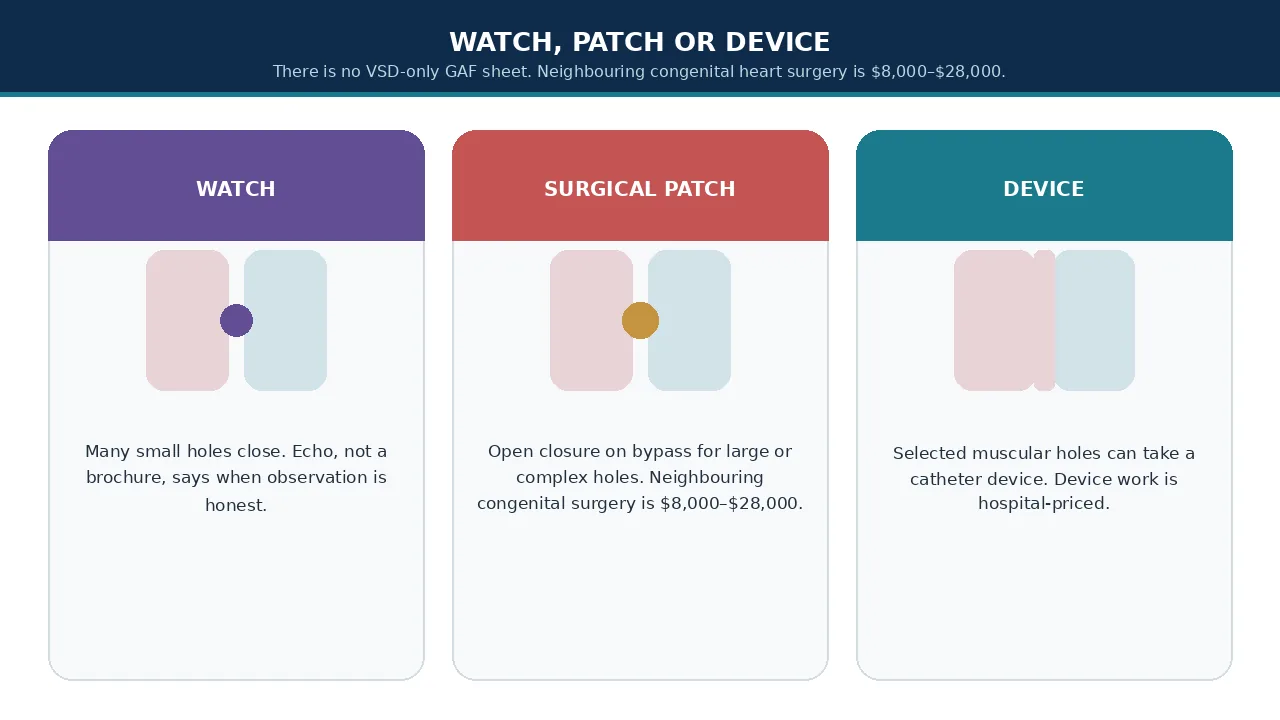
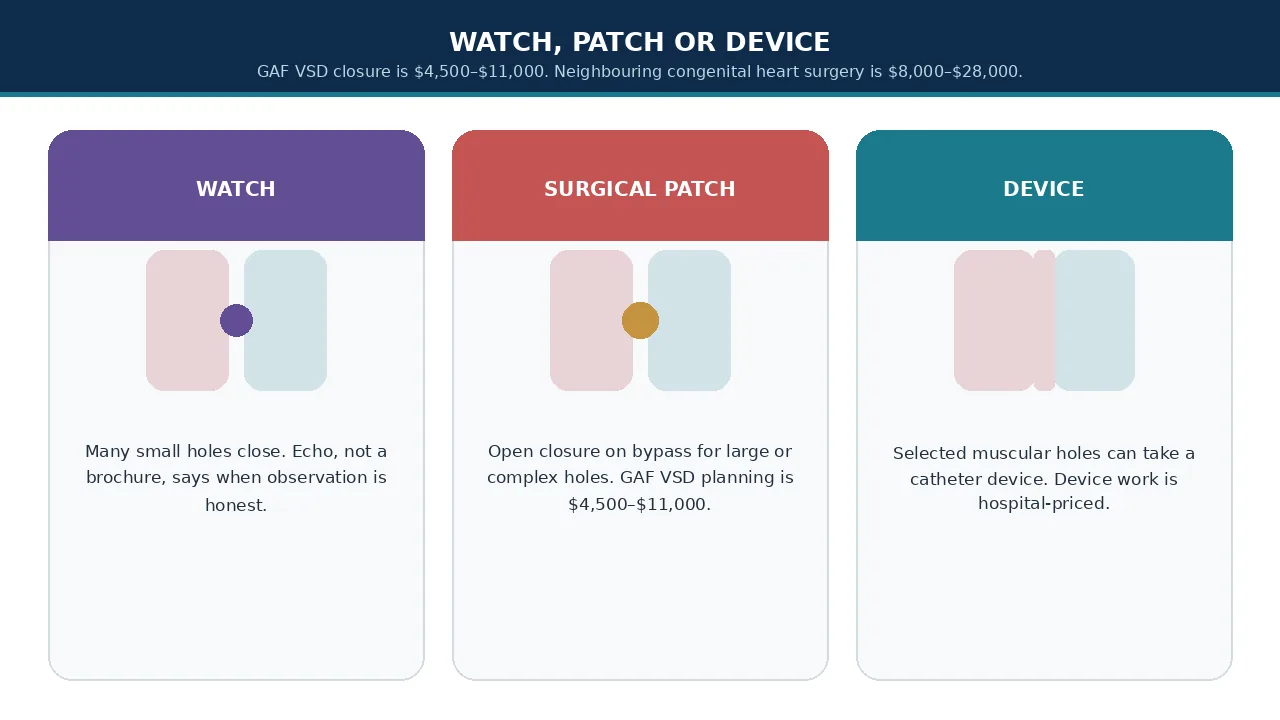
Refresh VSD closure surgery in India page
Move the live VSD guide onto the named GAF sheet ($4,500–$11,000, 6–12 nights), pediatric GEO links, the requested Quick Answer box, and reverse-links to TOF, PDA and Glenn.

Changed region(s): [[0.375, 0.6417, 0.625, 0.7333], [0.1875, 0.0917, 0.8125, 0.1222]]

diff --git a/src/server-tests/curated-treatment.test.ts b/src/server-tests/curated-treatment.test.ts
@@ -4023,14 +4023,18 @@ test("the published VSD surgery page uses GAF USD ranges and cardiac GEO links",
   assert.deepEqual(validateTreatmentForSave(treatment, store), []);
   const body = treatment.translations.en!.editorialBody;
   assert.doesNotMatch(body, /₹|lakh/i);
+  assert.match(body, /\$4,500–\$11,000/);
   assert.match(body, /\$8,000–\$28,000/);
   assert.match(body, /\$7,000–\$18,000/);
   assert.match(body, /\$7,000–\$18,500/);
   assert.match(body, /\$3,500–\$9,000/);
+  assert.match(body, /\$35,000–\$90,000/);
   assert.match(body, /\$80,000–\$250,000/);
+  assert.match(body, /6–12 nights/);
   assert.match(body, /7–21 nights/);
-  assert.match(body, /article-quick-answer|Quick Answer: VSD Surgery in India/);
+  assert.match(body, /article-quick-answer|Quick Answer: VSD Closure Surgery in India/);
   assert.match(body, /local emergency department/);
+  assert.match(body, /\/costs\/India\/Pediatric-Cardiac-Surgery\/VSD-Closure-\(Ventricular-Septal-Defect\)/);
   assert.match(body, /\/costs\/India\/Cardiac-Surgery\/Congenital-Heart-Surgery/);
   assert.match(body, /\/treatments\/heart-valve-replacement-in-india/);
   assert.match(body, /\/treatments\/pacemaker-implantation-in-india/);
@@ -4040,6 +4044,16 @@ test("the published VSD surgery page uses GAF USD ranges and cardiac GEO links",
   assert.match(body, /\/uploads\/treatments\/vsd-surgery-steps\.webp/);
   assert.match(body, /https:\/\/wa\.me\/919044346292/);
   for (const path of [
+    "/doctors/India/Delhi-NCR/Pediatric-Cardiac-Surgery/VSD-Closure-(Ventricular-Septal-Defect)",
+    "/doctors/India/Mumbai/Pediatric-Cardiac-Surgery/VSD-Closure-(Ventricular-Septal-Defect)",
+    "/doctors/India/Bengaluru/Pediatric-Cardiac-Surgery/VSD-Closure-(Ventricular-Septal-Defect)",
+    "/doctors/India/Chennai/Pediatric-Cardiac-Surgery/VSD-Closure-(Ventricular-Septal-Defect)",
+    "/doctors/India/Hyderabad/Pediatric-Cardiac-Surgery/VSD-Closure-(Ventricular-Septal-Defect)",
+    "/hospitals/India/Delhi-NCR/Pediatric-Cardiac-Surgery",
+    "/hospitals/India/Mumbai/Pediatric-Cardiac-Surgery",
+    "/hospitals/India/Bengaluru/Pediatric-Cardiac-Surgery",
+    "/costs/India/Delhi-NCR/Pediatric-Cardiac-Surgery/VSD-Closure-(Ventricular-Septal-Defect)",
+    "/costs/India/Mumbai/Pediatric-Cardiac-Surgery/VSD-Closure-(Ventricular-Septal-Defect)",
     "/doctors/India/Delhi-NCR/Cardiac-Surgery/Congenital-Heart-Surgery",
     "/doctors/India/Mumbai/Cardiac-Surgery/Congenital-Heart-Surgery",
     "/doctors/India/Bengaluru/Cardiac-Surgery/Congenital-Heart-Surgery",

diff --git a/src/server-tests/blog-sitemap.test.ts b/src/server-tests/blog-sitemap.test.ts
@@ -103,8 +103,8 @@ test("the root sitemap is an index of the language and blog sitemaps", () => {
     "https://gaf.healthcare/sitemap-ar.xml",
     "https://gaf.healthcare/sitemap-blogs.xml",
   ]);
-  assert.equal(files[0].lastModified, "2026-09-30T02:30:00.000Z");
-  assert.equal(files[2].lastModified, "2026-09-30T02:30:00.000Z");
+  assert.equal(files[0].lastModified, "2026-09-30T03:00:00.000Z");
+  assert.equal(files[2].lastModified, "2026-09-30T03:00:00.000Z");
   const xml = sitemapIndexXml(files);
   assert.match(xml, /<sitemapindex /);
   assert.match(xml, /<loc>https:\/\/gaf\.healthcare\/sitemap-blogs\.xml<\/loc>/);
@@ -113,7 +113,7 @@ test("the root sitemap is an index of the language and blog sitemaps", () => {
 test("the Yoast sitemap_index.xml alias is the same document as /sitemap.xml", () => {
   const xml = sitemapIndexDocument();
   assert.equal(xml, sitemapIndexXml(buildSitemapIndex()));
-  assert.match(xml, /<lastmod>2026-09-30T02:30:00.000Z<\/lastmod>/);
+  assert.match(xml, /<lastmod>2026-09-30T03:00:00.000Z<\/lastmod>/);
   assert.match(xml, /<loc>https:\/\/gaf\.healthcare\/sitemap-blogs\.xml<\/loc>/);
   assert.doesNotMatch(xml, /sitemap_index\.xml/);
 });

diff --git a/scripts/make-vsd-surgery-images.py b/scripts/make-vsd-surgery-images.py
@@ -145,10 +145,10 @@ def make_types():
 def make_pathways():
     im = Image.new("RGB", (1280, 720), WHITE)
     d = ImageDraw.Draw(im)
-    header(d, "WATCH, PATCH OR DEVICE", "There is no VSD-only GAF sheet. Neighbouring congenital heart surgery is $8,000–$28,000.")
+    header(d, "WATCH, PATCH OR DEVICE", "GAF VSD closure is $4,500–$11,000. Neighbouring congenital heart surgery is $8,000–$28,000.")
     tiles = [
         (48, 130, 424, 680, PURPLE, "WATCH", "Many small holes close. Echo, not a brochure, says when observation is honest."),
-        (452, 130, 828, 680, CORAL, "SURGICAL PATCH", "Open closure on bypass for large or complex holes. Neighbouring congenital surgery is $8,000–$28,000."),
+        (452, 130, 828, 680, CORAL, "SURGICAL PATCH", "Open closure on bypass for large or complex holes. GAF VSD planning is $4,500–$11,000."),
         (856, 130, 1232, 680, TEAL, "DEVICE", "Selected muscular holes can take a catheter device. Device work is hospital-priced."),
     ]
     title_f = font(BOLD, 20)
@@ -169,7 +169,7 @@ def make_pathways():
 def make_steps():
     im = Image.new("RGB", (1280, 720), WHITE)
     d = ImageDraw.Draw(im)
-    header(d, "VSD CLOSURE JOURNEY", "Neighbouring congenital heart surgery is $8,000–$28,000. Parent stay is expected.")
+    header(d, "VSD CLOSURE JOURNEY", "GAF VSD closure is $4,500–$11,000. Stay is typically 6–12 nights; parent stay expected.")
     steps = [
         ("1", "ECHO", "Size, location and shunt"),
         ("2", "TEAM", "Watch, patch or device is named"),

diff --git a/scripts/vsd-surgery-treatment-body.md b/scripts/vsd-surgery-treatment-body.md
@@ -1,55 +1,55 @@
 ![Abstract ventricular chambers without labels](/uploads/treatments/vsd-surgery-hero.webp)
 
-**Ventricular Septal Defect (VSD) surgery in India** is a procedure used to close an abnormal opening between the heart's two lower chambers, called the ventricles. VSD is a congenital heart defect, meaning it is usually present from birth. Small VSDs may close naturally and may only require regular monitoring, while larger or hemodynamically significant defects may require surgical or catheter-based closure.
+**VSD closure surgery in India** is performed to close a ventricular septal defect (VSD), an opening in the wall between the heart's two lower chambers. Depending on the size, location and effect of the defect, treatment may involve observation, open-heart surgical closure, catheter-based device closure, or, in selected complex cases, a hybrid approach.
 
-India has established pediatric cardiac centers equipped to diagnose and treat children and adults with congenital heart defects. Treatment may include observation, medicines to control symptoms, open-heart VSD repair, or transcatheter device closure depending on the size, location, anatomy of the defect, symptoms, pulmonary pressure, age and overall health of the patient.
+Small VSDs may close naturally and may never require an operation. Larger or hemodynamically significant VSDs can allow excessive blood flow to the lungs, enlarge the heart and, if left untreated when closure is indicated, contribute to pulmonary hypertension, heart failure, valve problems and other complications.
 
-For international patients, VSD treatment in India can involve the complete pathway from diagnostic evaluation and echocardiography to pediatric cardiac surgery, intensive care, rehabilitation and follow-up.
+India has established pediatric and adult congenital-heart programs capable of managing VSDs ranging from straightforward isolated defects to complex congenital heart disease. The appropriate treatment, however, should be selected only after reviewing the patient's echocardiogram, clinical condition, pulmonary pressures, VSD anatomy and associated heart defects.
 
-Valve lists sit on [Heart Valve Replacement Surgery in India](/treatments/heart-valve-replacement-in-india) when an outlet VSD has damaged the aortic valve. Pacing after complete heart block sits on [Pacemaker Implantation in India](/treatments/pacemaker-implantation-in-india). Aortic wall tears are a different product and sit on [Aortic Dissection Repair Surgery in India](/treatments/aortic-dissection-repair-in-india). There is no live GAF ASD-closure or pediatric-cardiac-surgery-only treatment page. This page is the named VSD-surgery product. TOF lists sit on [TOF Repair Surgery in India](/treatments/tof-repair-surgery-in-india). Glenn lists sit on [Glenn Procedure Surgery in India](/treatments/glenn-procedure-surgery-in-india). Fontan lists sit on [Fontan Procedure Surgery in India](/treatments/fontan-procedure-surgery-in-india). Arterial-switch lists sit on [Arterial Switch Operation in India](/treatments/arterial-switch-operation-in-india). PDA lists sit on [PDA Closure Surgery in India](/treatments/pda-closure-surgery-in-india). Coarctation lists sit on [Coarctation Repair Surgery in India](/treatments/coarctation-repair-surgery-in-india). LVAD lists sit on [Left Ventricular Assist Device (LVAD) Procedure in India](/treatments/lvad-implantation-in-india).
+Valve lists sit on [Heart Valve Replacement Surgery in India](/treatments/heart-valve-replacement-in-india) when an outlet VSD has damaged the aortic valve. Pacing after complete heart block sits on [Pacemaker Implantation in India](/treatments/pacemaker-implantation-in-india). Aortic wall tears are a different product and sit on [Aortic Dissection Repair Surgery in India](/treatments/aortic-dissection-repair-in-india). There is no live GAF ASD-closure, AVSD-only or pediatric-cardiac-surgery-only treatment page. This page is the named VSD-surgery product. TOF lists sit on [TOF Repair Surgery in India](/treatments/tof-repair-surgery-in-india). Glenn lists sit on [Glenn Procedure Surgery in India](/treatments/glenn-procedure-surgery-in-india). Fontan lists sit on [Fontan Procedure Surgery in India](/treatments/fontan-procedure-surgery-in-india). Arterial-switch lists sit on [Arterial Switch Operation in India](/treatments/arterial-switch-operation-in-india). PDA lists sit on [PDA Closure Surgery in India](/treatments/pda-closure-surgery-in-india). Coarctation lists sit on [Coarctation Repair Surgery in India](/treatments/coarctation-repair-surgery-in-india). LVAD lists sit on [Left Ventricular Assist Device (LVAD) Procedure in India](/treatments/lvad-implantation-in-india).
 
-There is no live GAF VSD-only cost sheet. Neighbouring [congenital heart surgery](/costs/India/Cardiac-Surgery/Congenital-Heart-Surgery) is **$8,000–$28,000** (typically **7–21 nights**; parent stay expected). US comparison is **$80,000–$250,000**. Neighbouring [heart valve replacement](/costs/India/Cardiac-Surgery/Heart-Valve-Replacement) is **$7,000–$18,000** (typically **8–16 nights**) when a valve is named in the same sitting. Named [aortic valve replacement](/costs/India/Cardiac-Surgery/Aortic-Valve-Replacement) is **$7,000–$18,500** (typically **8–16 nights**) when SAVR is added for VSD-related aortic leak. Neighbouring [pacemaker implantation](/costs/India/Cardiology/Pacemaker-Implantation) is **$3,500–$9,000** (typically **1–3 nights**) if complete heart block requires pacing. Neighbouring [minimally invasive cardiac surgery](/costs/India/Cardiac-Surgery/Minimally-Invasive-Cardiac-Surgery) is **$8,000–$20,000** when a mini approach can honestly complete isolated work. Transcatheter VSD device closure has no live GAF sheet and is quoted after echo and device selection. These are planning ranges from partner hospital cost sheets, not hospital quotations.
+GAF Healthcare planning for [VSD closure](/costs/India/Pediatric-Cardiac-Surgery/VSD-Closure-(Ventricular-Septal-Defect)) is **$4,500–$11,000** (typically **6–12 nights**; parent stay expected). US comparison is **$35,000–$90,000**. Neighbouring [congenital heart surgery](/costs/India/Cardiac-Surgery/Congenital-Heart-Surgery) is **$8,000–$28,000** (typically **7–21 nights**; parent stay expected) when a broader congenital list is the honest product. US comparison for that broader sheet is **$80,000–$250,000**. Neighbouring [TOF repair](/costs/India/Pediatric-Cardiac-Surgery/TOF-Repair-(Tetralogy-of-Fallot)) is **$6,500–$16,000**. Neighbouring [PDA closure](/costs/India/Pediatric-Cardiac-Surgery/PDA-Closure-(Patent-Ductus-Arteriosus)) is **$3,500–$8,500**. Neighbouring [ASD closure](/costs/India/Pediatric-Cardiac-Surgery/ASD-Closure-(Atrial-Septal-Defect)) is **$4,000–$9,500**. Neighbouring [heart valve replacement](/costs/India/Cardiac-Surgery/Heart-Valve-Replacement) is **$7,000–$18,000** (typically **8–16 nights**) when a valve is named in the same sitting. Named [aortic valve replacement](/costs/India/Cardiac-Surgery/Aortic-Valve-Replacement) is **$7,000–$18,500** (typically **8–16 nights**) when SAVR is added for VSD-related aortic leak. Neighbouring [pacemaker implantation](/costs/India/Cardiology/Pacemaker-Implantation) is **$3,500–$9,000** (typically **1–3 nights**) if complete heart block requires pacing. Neighbouring [minimally invasive cardiac surgery](/costs/India/Cardiac-Surgery/Minimally-Invasive-Cardiac-Surgery) is **$8,000–$20,000** when a mini approach can honestly complete isolated work. Transcatheter VSD device work is quoted after echo and device selection. These are planning ranges from partner hospital cost sheets, not hospital quotations.
 
-International patients comparing [cardiac surgeons](/doctors/India/Cardiac-Surgery) commonly start with [Delhi NCR](/doctors/India/Delhi-NCR/Cardiac-Surgery/Congenital-Heart-Surgery), [Mumbai](/doctors/India/Mumbai/Cardiac-Surgery/Congenital-Heart-Surgery), [Bengaluru](/doctors/India/Bengaluru/Cardiac-Surgery/Congenital-Heart-Surgery), [Chennai](/doctors/India/Chennai/Cardiac-Surgery/Congenital-Heart-Surgery) and [Hyderabad](/doctors/India/Hyderabad/Cardiac-Surgery/Congenital-Heart-Surgery). Partner [cardiac surgery hospitals](/hospitals/India/Cardiac-Surgery) in [Delhi NCR](/hospitals/India/Delhi-NCR/Cardiac-Surgery), [Mumbai](/hospitals/India/Mumbai/Cardiac-Surgery) and [Bengaluru](/hospitals/India/Bengaluru/Cardiac-Surgery), and in [Chennai](/hospitals/India/Chennai/Cardiac-Surgery) and [Hyderabad](/hospitals/India/Hyderabad/Cardiac-Surgery), are a typical first filter because VSD closure needs a pediatric or congenital cardiac ICU, echo and emergency backup. City cost sheets include [Delhi NCR](/costs/India/Delhi-NCR/Cardiac-Surgery/Congenital-Heart-Surgery), [Mumbai](/costs/India/Mumbai/Cardiac-Surgery/Congenital-Heart-Surgery), [Bengaluru](/costs/India/Bengaluru/Cardiac-Surgery/Congenital-Heart-Surgery), [Chennai](/costs/India/Chennai/Cardiac-Surgery/Congenital-Heart-Surgery) and [Hyderabad](/costs/India/Hyderabad/Cardiac-Surgery/Congenital-Heart-Surgery). Kolkata, Pune, Ahmedabad, Chandigarh and Kochi may have congenital theatres. They are not live GAF catalog cities on this site.
+International patients comparing [pediatric cardiac surgeons](/doctors/India/Pediatric-Cardiac-Surgery) commonly start with [Delhi NCR](/doctors/India/Delhi-NCR/Pediatric-Cardiac-Surgery/VSD-Closure-(Ventricular-Septal-Defect)), [Mumbai](/doctors/India/Mumbai/Pediatric-Cardiac-Surgery/VSD-Closure-(Ventricular-Septal-Defect)), [Bengaluru](/doctors/India/Bengaluru/Pediatric-Cardiac-Surgery/VSD-Closure-(Ventricular-Septal-Defect)), [Chennai](/doctors/India/Chennai/Pediatric-Cardiac-Surgery/VSD-Closure-(Ventricular-Septal-Defect)) and [Hyderabad](/doctors/India/Hyderabad/Pediatric-Cardiac-Surgery/VSD-Closure-(Ventricular-Septal-Defect)). Partner [pediatric cardiac surgery hospitals](/hospitals/India/Pediatric-Cardiac-Surgery) in [Delhi NCR](/hospitals/India/Delhi-NCR/Pediatric-Cardiac-Surgery), [Mumbai](/hospitals/India/Mumbai/Pediatric-Cardiac-Surgery) and [Bengaluru](/hospitals/India/Bengaluru/Pediatric-Cardiac-Surgery), and in [Chennai](/hospitals/India/Chennai/Pediatric-Cardiac-Surgery) and [Hyderabad](/hospitals/India/Hyderabad/Pediatric-Cardiac-Surgery), are a typical first filter because VSD closure needs a pediatric cardiac ICU, echo and emergency backup. City VSD sheets include [Delhi NCR](/costs/India/Delhi-NCR/Pediatric-Cardiac-Surgery/VSD-Closure-(Ventricular-Septal-Defect)), [Mumbai](/costs/India/Mumbai/Pediatric-Cardiac-Surgery/VSD-Closure-(Ventricular-Septal-Defect)), [Bengaluru](/costs/India/Bengaluru/Pediatric-Cardiac-Surgery/VSD-Closure-(Ventricular-Septal-Defect)), [Chennai](/costs/India/Chennai/Pediatric-Cardiac-Surgery/VSD-Closure-(Ventricular-Septal-Defect)) and [Hyderabad](/costs/India/Hyderabad/Pediatric-Cardiac-Surgery/VSD-Closure-(Ventricular-Septal-Defect)). Broader congenital lists still sit with [cardiac surgeons](/doctors/India/Cardiac-Surgery) in [Delhi NCR](/doctors/India/Delhi-NCR/Cardiac-Surgery/Congenital-Heart-Surgery), [Mumbai](/doctors/India/Mumbai/Cardiac-Surgery/Congenital-Heart-Surgery), [Bengaluru](/doctors/India/Bengaluru/Cardiac-Surgery/Congenital-Heart-Surgery), [Chennai](/doctors/India/Chennai/Cardiac-Surgery/Congenital-Heart-Surgery) and [Hyderabad](/doctors/India/Hyderabad/Cardiac-Surgery/Congenital-Heart-Surgery), and with [cardiac surgery hospitals](/hospitals/India/Cardiac-Surgery) in [Delhi NCR](/hospitals/India/Delhi-NCR/Cardiac-Surgery), [Mumbai](/hospitals/India/Mumbai/Cardiac-Surgery) and [Bengaluru](/hospitals/India/Bengaluru/Cardiac-Surgery), [Chennai](/hospitals/India/Chennai/Cardiac-Surgery) and [Hyderabad](/hospitals/India/Hyderabad/Cardiac-Surgery). Neighbouring congenital city sheets include [Delhi NCR](/costs/India/Delhi-NCR/Cardiac-Surgery/Congenital-Heart-Surgery) and [Mumbai](/costs/India/Mumbai/Cardiac-Surgery/Congenital-Heart-Surgery), plus [Bengaluru](/costs/India/Bengaluru/Cardiac-Surgery/Congenital-Heart-Surgery), [Chennai](/costs/India/Chennai/Cardiac-Surgery/Congenital-Heart-Surgery) and [Hyderabad](/costs/India/Hyderabad/Cardiac-Surgery/Congenital-Heart-Surgery). Kolkata, Pune, Ahmedabad, Chandigarh and Kochi may have congenital theatres. They are not live GAF catalog cities on this site.
 
 > Important: Severe breathing difficulty, bluish discoloration, poor feeding, extreme lethargy or fainting belongs in a **local emergency department** first. WhatsApp at +91 90443 46292 is for planned record review, not an acute infant emergency.
 
 [Share echo for a VSD Heart Team review](/consult?treatment=ventricular-septal-defect-surgery-in-india)
 
-## Quick Answer: VSD Surgery in India
+## Quick Answer: VSD Closure Surgery in India
 
 **What is VSD?**
-A hole between the heart's two lower chambers, the ventricles.
+A hole in the wall separating the heart's two ventricles
 
-**Is every VSD treated with surgery?**
-No. Many small VSDs close on their own and only require monitoring.
+**Does every VSD require surgery?**
+No. Many small VSDs close spontaneously or only require monitoring
 
-**When is VSD surgery needed?**
-Usually when the defect is large, causes significant blood flow to the lungs, symptoms, poor growth, heart failure, pulmonary hypertension, ventricular enlargement or other complications.
+**When is closure considered?**
+When the VSD causes significant shunting, heart enlargement, symptoms, pulmonary pressure problems, valve damage or other accepted indications
 
-**How is VSD closed?**
-Most significant VSDs are closed surgically with a patch or, in selected cases, through a catheter using a closure device.
+**Main treatment**
+Surgical patch closure for many VSDs
 
-**What is the usual VSD surgery?**
-Open-heart surgical closure using a patch is the standard approach for many VSDs.
+**Alternative**
+Catheter-based device closure for carefully selected VSDs
 
-**Can VSD be closed without open-heart surgery?**
-Some anatomically suitable VSDs can be closed through a catheter.
+**Anaesthesia**
+Usually general anaesthesia for surgical closure; catheter procedures may also require general anaesthesia, particularly in children
 
-**Does a small VSD always need treatment?**
-No. Many small VSDs close spontaneously.
+**Hospital stay**
+Commonly several days after surgical closure; catheter recovery can be shorter. GAF Healthcare planning is typically 6–12 nights, with parent stay expected.
 
-**How long does VSD surgery take?**
-The exact duration depends on the defect and whether other repairs are required.
+**Surgical recovery**
+Children often return toward normal activity over several weeks, depending on age and recovery
 
-**How long is hospital stay?**
-It varies with age, complexity, surgical approach and recovery. Neighbouring congenital heart surgery planning is typically 7–21 nights, with parent stay expected.
+**India cost**
+GAF Healthcare planning for VSD closure is $4,500–$11,000 (typically 6–12 nights; parent stay expected). US comparison is $35,000–$90,000. Anatomy, device versus patch, ICU nights and associated procedures can change the final bill.
 
-**What is the VSD surgery cost in India?**
-There is no live GAF VSD-only sheet. Neighbouring congenital heart surgery is $8,000–$28,000 (typically 7–21 nights). US comparison is $80,000–$250,000. Device closure is hospital-priced.
+**Who performs it?**
+Pediatric cardiac surgeon, congenital heart surgeon and/or interventional pediatric cardiologist depending on the treatment
 
-**Is VSD surgery successful?**
-Most children whose VSDs are successfully closed have good long-term outcomes, although lifelong or periodic congenital-heart follow-up may be recommended.
+**Long-term outlook**
+Generally very good after successful closure, but lifelong or periodic congenital-heart follow-up may be appropriate depending on the patient
 
 Medical decisions should be based on the patient's echocardiogram, anatomy, symptoms and assessment by a congenital or pediatric cardiology team rather than cost or age alone.
 
@@ -238,7 +238,7 @@ Open surgery remains the preferred approach for many VSDs. There is no live GAF 
 | Suitable for selected muscular VSDs | Yes | Sometimes |
 | Device required | No | Yes |
 | Hospital recovery | Depends on age and complexity | Often shorter when uncomplicated |
-| Neighbouring GAF sheet | Congenital heart surgery $8,000–$28,000 | Hospital-priced; no GAF device sheet |
+| Neighbouring GAF sheet | VSD closure $4,500–$11,000 | Hospital-priced after echo |
 
 The choice should be made by a congenital or pediatric cardiac team after reviewing the complete cardiac anatomy rather than simply choosing the least invasive option.
 
@@ -324,10 +324,11 @@ The long-term outlook is generally favorable for children whose VSD is successfu
 
 The cost of VSD surgery in India depends on the patient's age, complexity of the defect, surgical approach, hospital, ICU requirements, room category, investigations and whether additional cardiac procedures are required.
 
-There is no live GAF VSD-only sheet. Neighbouring [congenital heart surgery](/costs/India/Cardiac-Surgery/Congenital-Heart-Surgery) planning is **$8,000–$28,000**, typically **7–21 nights**. Comparable US planning is **$80,000–$250,000**. Brochure rupee figures are not international self-pay quotations and are not used on this page.
+GAF Healthcare planning for [VSD closure](/costs/India/Pediatric-Cardiac-Surgery/VSD-Closure-(Ventricular-Septal-Defect)) is **$4,500–$11,000**, typically **6–12 nights**, with parent stay expected. US comparison is **$35,000–$90,000**. Neighbouring [congenital heart surgery](/costs/India/Cardiac-Surgery/Congenital-Heart-Surgery) planning is **$8,000–$28,000**, typically **7–21 nights**. Comparable US planning for that broader sheet is **$80,000–$250,000**. Published Indian rupee listings are not GAF quotations.
 
 | Neighbouring GAF sheet | Planning range | Typical stay |
 | --- | --- | --- |
+| [VSD closure](/costs/India/Pediatric-Cardiac-Surgery/VSD-Closure-(Ventricular-Septal-Defect)) | $4,500–$11,000 | 6–12 nights |
 | [Congenital heart surgery](/costs/India/Cardiac-Surgery/Congenital-Heart-Surgery) | $8,000–$28,000 | 7–21 nights |
 | [Heart valve replacement](/costs/India/Cardiac-Surgery/Heart-Valve-Replacement) | $7,000–$18,000 | 8–16 nights |
 | [Aortic valve replacement](/costs/India/Cardiac-Surgery/Aortic-Valve-Replacement) | $7,000–$18,500 | 8–16 nights |
@@ -581,10 +582,10 @@ A significant untreated VSD can result in excessive pulmonary blood flow, heart 
 Yes. Infants with significant symptomatic VSDs may require repair during infancy. The timing depends on the baby's symptoms, growth, anatomy and pulmonary circulation.
 
 **What is the VSD surgery cost in India?**
-There is no live GAF VSD-only sheet. Neighbouring congenital heart surgery is $8,000–$28,000 (typically 7–21 nights). Device closure is hospital-priced.
+GAF Healthcare planning for [VSD closure](/costs/India/Pediatric-Cardiac-Surgery/VSD-Closure-(Ventricular-Septal-Defect)) is **$4,500–$11,000**, typically **6–12 nights**, with parent stay expected. US comparison is **$35,000–$90,000**. Neighbouring congenital heart surgery is $8,000–$28,000 (typically 7–21 nights). Device work is quoted after echo.
 
 **How long does a child stay in hospital after VSD surgery?**
-Neighbouring congenital-heart planning is typically 7–21 nights. Infants and children with associated congenital heart conditions may require longer hospitalization.
+GAF VSD planning is typically 6–12 nights, with parent stay expected. Neighbouring congenital-heart planning is typically 7–21 nights. Infants and children with associated congenital heart conditions may require longer hospitalization.
 
 **Is VSD surgery painful?**
 The operation itself is performed under general anesthesia. After surgery, children may experience discomfort, which is managed with appropriate pain-control medicines.
@@ -611,7 +612,7 @@ There is no single best city. Delhi NCR, Mumbai, Bengaluru, Chennai and Hyderaba
 Severe breathing difficulty, bluish discoloration, poor feeding, extreme lethargy or fainting belongs in a local emergency department, not in a WhatsApp message.
 
 **Is there a GAF ASD, PDA or Tetralogy of Fallot treatment page?**
-No. ASD-closure treatment pages are not live. Use this page and the named congenital-heart-surgery sheet.
+ASD-closure treatment pages are not live. PDA lists sit on [PDA Closure Surgery in India](/treatments/pda-closure-surgery-in-india). TOF lists sit on [TOF Repair Surgery in India](/treatments/tof-repair-surgery-in-india).
 
 ## Key takeaways
 
@@ -622,7 +623,7 @@ No. ASD-closure treatment pages are not live. Use this page and the named congen
 - Echocardiography is the key investigation for assessing VSD anatomy and physiological impact.
 - Open surgical patch closure is used for many significant VSDs.
 - Selected VSDs can be closed through a catheter using a device.
-- There is no live GAF VSD-only sheet. Neighbouring congenital heart surgery is $8,000–$28,000.
+- GAF Healthcare planning for [VSD closure](/costs/India/Pediatric-Cardiac-Surgery/VSD-Closure-(Ventricular-Septal-Defect)) is **$4,500–$11,000**. Neighbouring congenital heart surgery is $8,000–$28,000.
 - Significant untreated VSD can cause heart failure and pulmonary vascular disease.
 - Long-term follow-up remains important after VSD repair.
 
@@ -638,17 +639,19 @@ Planned questions can also go to WhatsApp at [+91 90443 46292](https://wa.me/919
 
 ## Related GAF Healthcare pages
 
+- [TOF Repair Surgery in India](/treatments/tof-repair-surgery-in-india)
+- [PDA Closure Surgery in India](/treatments/pda-closure-surgery-in-india)
+- [Glenn Procedure Surgery in India](/treatments/glenn-procedure-surgery-in-india)
 - [Heart Valve Replacement Surgery in India](/treatments/heart-valve-replacement-in-india)
-- [Tricuspid Valve Replacement Surgery in India](/treatments/tricuspid-valve-replacement-in-india)
-- [Aortic Dissection Repair Surgery in India](/treatments/aortic-dissection-repair-in-india)
-- [CABG Surgery in India](/treatments/cabg-surgery-in-india)
 - [Pacemaker Implantation in India](/treatments/pacemaker-implantation-in-india)
-- [TAVR in India](/treatments/tavr-in-india)
+- [VSD closure cost](/costs/India/Pediatric-Cardiac-Surgery/VSD-Closure-(Ventricular-Septal-Defect))
 - [Congenital heart surgery cost](/costs/India/Cardiac-Surgery/Congenital-Heart-Surgery)
+- [Pediatric cardiac surgeons in India](/doctors/India/Pediatric-Cardiac-Surgery)
+- [Pediatric cardiac surgery hospitals in India](/hospitals/India/Pediatric-Cardiac-Surgery)
 - [Cardiac surgeons in India](/doctors/India/Cardiac-Surgery)
 - [Cardiac surgery hospitals in India](/hospitals/India/Cardiac-Surgery)
 
-ASD-closure, Tetralogy-of-Fallot, pulmonary-valve-replacement and pediatric-cardiac-surgery-only treatment pages are not live on this site. Use this page plus the named congenital-heart-surgery sheet.
+ASD-closure, AVSD-only and pediatric-cardiac-surgery-only treatment pages are not live on this site. Use this page plus the named VSD-closure sheet.
 
 ## Sources
 
@@ -658,7 +661,7 @@ ASD-closure, Tetralogy-of-Fallot, pulmonary-valve-replacement and pediatric-card
 4. **Centers for Disease Control and Prevention (CDC) — Ventricular Septal Defect.**
 5. **Mayo Clinic — VSD Diagnosis & Treatment.**
 6. **Merck Manual Professional — Ventricular Septal Defect.**
-7. **GAF Healthcare congenital heart surgery cost sheet** — [Congenital Heart Surgery](/costs/India/Cardiac-Surgery/Congenital-Heart-Surgery).
+7. **GAF Healthcare VSD closure cost sheet** — [VSD Closure (Ventricular Septal Defect)](/costs/India/Pediatric-Cardiac-Surgery/VSD-Closure-(Ventricular-Septal-Defect)).
 8. **American Heart Association — Surgery for Congenital Heart Disease.**
 9. **Mayo Clinic — VSD Symptoms & Causes.**
 10. **Merck Manual — Atrial and Ventricular Septal Defects in Children.**
